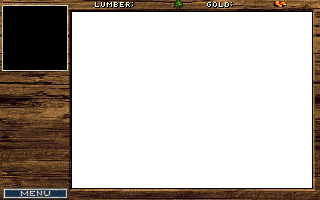
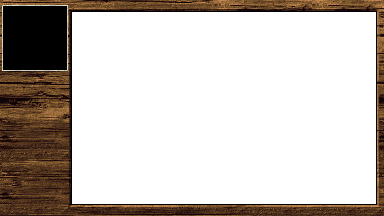
#50: Native resolution is now widescreen.

Changed region(s): [[0.0, 0.0, 1.0, 1.0]]

diff --git a/warcraft-game/src/main/java/com/b3dgs/warcraft/World.java b/warcraft-game/src/main/java/com/b3dgs/warcraft/World.java
@@ -38,6 +38,7 @@ import com.b3dgs.lionengine.geom.Area;
 import com.b3dgs.lionengine.geom.Geom;
 import com.b3dgs.lionengine.graphic.Graphic;
 import com.b3dgs.lionengine.graphic.drawable.Drawable;
+import com.b3dgs.lionengine.graphic.drawable.Image;
 import com.b3dgs.lionengine.graphic.drawable.SpriteFont;
 import com.b3dgs.lionengine.io.FileReading;
 import com.b3dgs.lionengine.io.FileWriting;
@@ -58,17 +59,21 @@ public class World extends WorldGame
     private static final int VIEW_X = 72;
     private static final int VIEW_Y = 12;
     private static final int TEXT_X = 74;
-    private static final int TEXT_Y = 193;
-    private static final int RESOURCES_WOOD_X = 170;
-    private static final int RESOURCES_GOLD_X = 270;
+    private static final int TEXT_Y = 209;
+    private static final String RESOURCE_WOOD = "LUMBER:";
+    private static final String RESOURCE_GOLD = "GOLD:";
+    private static final int RESOURCES_WOOD_X = 180;
+    private static final int RESOURCES_GOLD_X = 290;
     private static final int RESOURCES_Y = 2;
-    private static final Area AREA = Geom.createArea(VIEW_X, VIEW_Y + 12, 239, 175);
+    private static final Area AREA = Geom.createArea(VIEW_X, VIEW_Y, 304, 192);
 
     private final Player player = services.add(new Player(Race.ORC));
     private final WorldMap worldMap = new WorldMap(services);
     private final MapTile map = services.get(MapTile.class);
     private final WorldMinimap minimap = new WorldMinimap(services);
     private final Cursor cursor = services.create(Cursor.class);
+    private final Image wood = Util.getImage(Gfx.HUD_WOOD, RESOURCES_WOOD_X + 10, RESOURCES_Y - 2);
+    private final Image gold = Util.getImage(Gfx.HUD_GOLD, RESOURCES_GOLD_X + 10, RESOURCES_Y - 1);
     private final SpriteFont text;
     private final WorldNavigator navigator;
     private final WorldSelection selection;
@@ -88,7 +93,7 @@ public class World extends WorldGame
         services.add(getInputDevice(InputDeviceDirectional.class));
         services.add(new ProduceProgress());
 
-        camera.setView(VIEW_X, VIEW_Y, AREA.getWidth(), AREA.getHeight(), source.getHeight());
+        camera.setView(VIEW_X, VIEW_Y, AREA.getWidth(), AREA.getHeight(), AREA.getHeight());
 
         handler.addComponent(services.add(new ComponentCollision()));
 
@@ -210,6 +215,12 @@ public class World extends WorldGame
         text.render(g);
         text.draw(g, RESOURCES_WOOD_X, RESOURCES_Y, Align.RIGHT, String.valueOf(player.getWood()));
         text.draw(g, RESOURCES_GOLD_X, RESOURCES_Y, Align.RIGHT, String.valueOf(player.getGold()));
+
+        text.draw(g, RESOURCES_WOOD_X - 35, RESOURCES_Y, Align.RIGHT, RESOURCE_WOOD);
+        text.draw(g, RESOURCES_GOLD_X - 35, RESOURCES_Y, Align.RIGHT, RESOURCE_GOLD);
+        wood.render(g);
+        gold.render(g);
+
         if (!cursor.hasClicked(2))
         {
             cursor.render(g);

diff --git a/warcraft-game/src/main/java/com/b3dgs/warcraft/action/BuildButton.java b/warcraft-game/src/main/java/com/b3dgs/warcraft/action/BuildButton.java
@@ -57,9 +57,9 @@ import com.b3dgs.warcraft.object.CostConfig;
  */
 public class BuildButton extends ActionModel
 {
-    private static final int TEXT_WOOD_X = 220;
-    private static final int TEXT_GOLD_X = 265;
-    private static final int TEXT_Y = 193;
+    private static final int TEXT_WOOD_X = 280;
+    private static final int TEXT_GOLD_X = 325;
+    private static final int TEXT_Y = 209;
     private static final int TEXT_OFFSET_X = 17;
 
     private final Image wood = Util.getImage(Gfx.HUD_WOOD, TEXT_WOOD_X, TEXT_Y - 2);
@@ -181,13 +181,19 @@ public class BuildButton extends ActionModel
     {
         if (area != null && viewer.isViewable((Localizable) cursor, 0, 0))
         {
-            if (valid)
+            g.setColor(Constant.COLOR_NEUTRAL);
+            if (!valid)
             {
-                g.setColor(Constant.COLOR_SELECTION);
-            }
-            else
-            {
-                g.setColor(Constant.COLOR_ENEMIES);
+                g.drawLine(viewer,
+                           (int) area.getX(),
+                           (int) area.getY() + 1,
+                           (int) area.getX() + area.getWidth() - 1,
+                           (int) area.getY() + area.getHeight());
+                g.drawLine(viewer,
+                           (int) area.getX(),
+                           (int) area.getY() + area.getHeight(),
+                           (int) area.getX() + area.getWidth() - 1,
+                           (int) area.getY() + 1);
             }
             g.drawRect(viewer, Origin.BOTTOM_LEFT, area, false);
         }

diff --git a/warcraft-pc/src/main/java/com/b3dgs/warcraft/AppWarcraftPc.java b/warcraft-pc/src/main/java/com/b3dgs/warcraft/AppWarcraftPc.java
@@ -18,6 +18,7 @@ package com.b3dgs.warcraft;
 
 import com.b3dgs.lionengine.Config;
 import com.b3dgs.lionengine.LionEngineException;
+import com.b3dgs.lionengine.Resolution;
 import com.b3dgs.lionengine.audio.AudioFactory;
 import com.b3dgs.lionengine.audio.adlmidi.AdlMidiFormat;
 import com.b3dgs.lionengine.audio.wav.WavFormat;
@@ -30,6 +31,9 @@ import com.b3dgs.warcraft.constant.Constant;
  */
 public final class AppWarcraftPc
 {
+    /** Default display. */
+    private static final Resolution DEFAULT_RESOLUTION = new Resolution(1280, 720, 60);
+
     /**
      * Main function.
      * 
@@ -38,7 +42,7 @@ public final class AppWarcraftPc
     public static void main(String[] args) // CHECKSTYLE IGNORE LINE: TrailingComment|UncommentedMain
     {
         EngineAwt.start(Constant.PROGRAM_NAME, Constant.PROGRAM_VERSION, AppWarcraftPc.class);
-        Loader.start(Config.windowed(Constant.NATIVE.get2x()), Loading.class);
+        Loader.start(Config.windowed(DEFAULT_RESOLUTION), Loading.class);
         AudioFactory.addFormat(new WavFormat());
         AudioFactory.addFormat(new AdlMidiFormat());
         AdlMidiFormat.setDefaultBank(Constant.SOUND_BANK_ID);

diff --git a/warcraft-game/src/main/java/com/b3dgs/warcraft/action/ProduceButton.java b/warcraft-game/src/main/java/com/b3dgs/warcraft/action/ProduceButton.java
@@ -43,9 +43,9 @@ import com.b3dgs.warcraft.object.EntityModel;
  */
 public class ProduceButton extends ActionModel
 {
-    private static final int TEXT_WOOD_X = 220;
-    private static final int TEXT_GOLD_X = 265;
-    private static final int TEXT_Y = 193;
+    private static final int TEXT_WOOD_X = 280;
+    private static final int TEXT_GOLD_X = 325;
+    private static final int TEXT_Y = 209;
     private static final int TEXT_OFFSET_X = 17;
     private static final String ATT_MEDIA = "media";
 

diff --git a/warcraft-game/src/main/java/com/b3dgs/warcraft/constant/Constant.java b/warcraft-game/src/main/java/com/b3dgs/warcraft/constant/Constant.java
@@ -31,7 +31,7 @@ public final class Constant
     /** Application version. */
     public static final Version PROGRAM_VERSION = Version.create(0, 0, 6);
     /** Native resolution. */
-    public static final Resolution NATIVE = new Resolution(320, 200, 60);
+    public static final Resolution NATIVE = new Resolution(384, 216, 60);
 
     /** Debug flag. */
     public static final boolean DEBUG = true;
